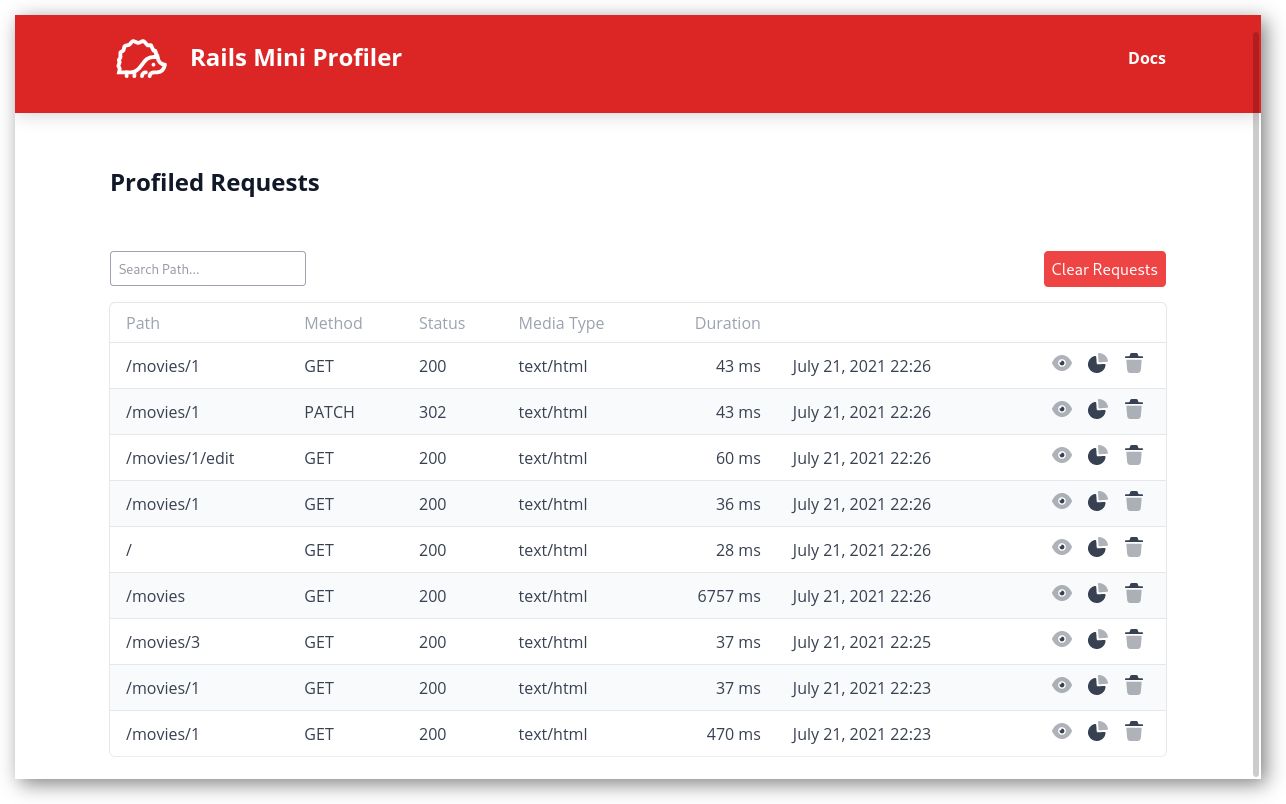
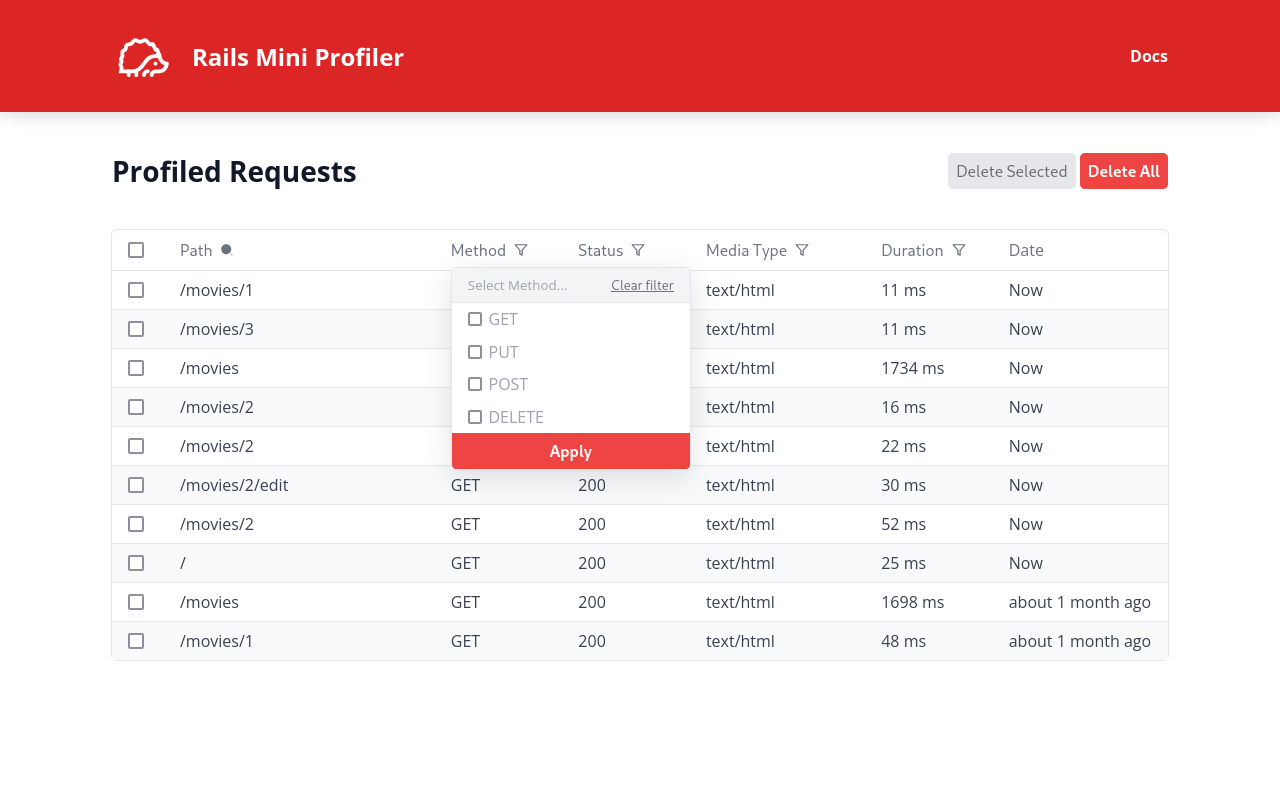
chore: improve docs, small css tweaks

diff --git a/app/javascript/stylesheets/traces.scss b/app/javascript/stylesheets/traces.scss
@@ -51,11 +51,15 @@
   border-radius: 5px;
 }
 
-.trace-table {
+.trace-details-table {
   width: 100%;
   border: hidden 1px var(--border-color);
   margin-top: 1em;
   border-collapse: collapse;
+}
+
+.trace-details-table tr th {
+  font-weight: var(--fw-semibold);
 }
 
 .trace-list-header {

diff --git a/app/javascript/stylesheets/rails-mini-profiler.scss b/app/javascript/stylesheets/rails-mini-profiler.scss
@@ -60,6 +60,9 @@ html {
   --primary: var(--red-600);
   --border-color: var(--grey-200);
   --text-color: var(--grey-900);
+  --fw-normal: 400;
+  --fw-semibold: 600;
+  --fw-bold: 700;
 }
 
 * {

diff --git a/README.md b/README.md
@@ -74,18 +74,18 @@ top right that is injected into your pages.
 
 ![overview](docs/images/overview.png)
 
-Requests to your application will be profiled automatically. You can view all stored requests by navigating to `yourapp/rails_mini_profiler/profiled_requests`.
+Requests to your application will be profiled automatically. You can view and search all stored requests by navigating to `yourapp/rails_mini_profiler/profiled_requests`.
 
 ### Request Details
 
 <p align="center">
   <img alt="Light" src="docs/images/trace.png" width="45%">
 &nbsp; &nbsp; &nbsp; &nbsp;
-  <img alt="Dark" src="docs/images/sequel.png" width="45%">
+  <img alt="Dark" src="docs/images/trace-details.png" width="45%">
 </p>
 
 This view shows you how your requests spend their time. How much of it is spent in the DB, how much in rendering views?
-By clicking on individual traces you can find out detailed information.
+May can filter and clicking on individual traces to gain deeper insights and see detailed information.
 
 ### Flamegraphs
 
@@ -114,13 +114,6 @@ Rails Mini Profiler provides a wide array of configuration options. You can find
 | `ui`                     | `UserInterface.new`          | UI configuration. See [UI](#UI).                                                                |
 | `user_provider`          | `Rack::Request.new(env).ip`  | How to identify users. See [Authorization](#Authorization)                                                      |
 
-### Request Configuration
-
-You may override the configuration by sending request parameters. The following parameters are available:
-
-| Name           | Description                                                                                 |
-| ---------------- | ------------------------------------------------------------------------------------------- |
-| `rmp_flamegraph` | Overrides `flamegraph_enabled` If set to `true` will redirect to the flamegraph immediatly. |
 
 ### Storage
 
@@ -163,6 +156,14 @@ Rails Mini Profiler allows you to configure various UI features.
 | `base_controller`   | `ApplicationController` | Which controller UI controllers should inherit from.                                            |
 | `page_size`         | `25`                      | The page size for lists shown in the UI.                                                        |
 | `webpacker_enabled` | `true`                    | Use Webpacker if available? Disable to fall back to the asset pipeline.                         |
+
+### Request Configuration
+
+You may override static configuration on a per-request by attaching request parameters. For example, `https://myapp.com/api/mydata?rmp_flamegraph=false`
+
+| Name           | Description                                                                                 |
+| ---------------- | ------------------------------------------------------------------------------------------- |
+| `rmp_flamegraph` | Overrides `flamegraph_enabled` If set to `true` will redirect to the flamegraph immediately. |
 
 ### Authorization
 
